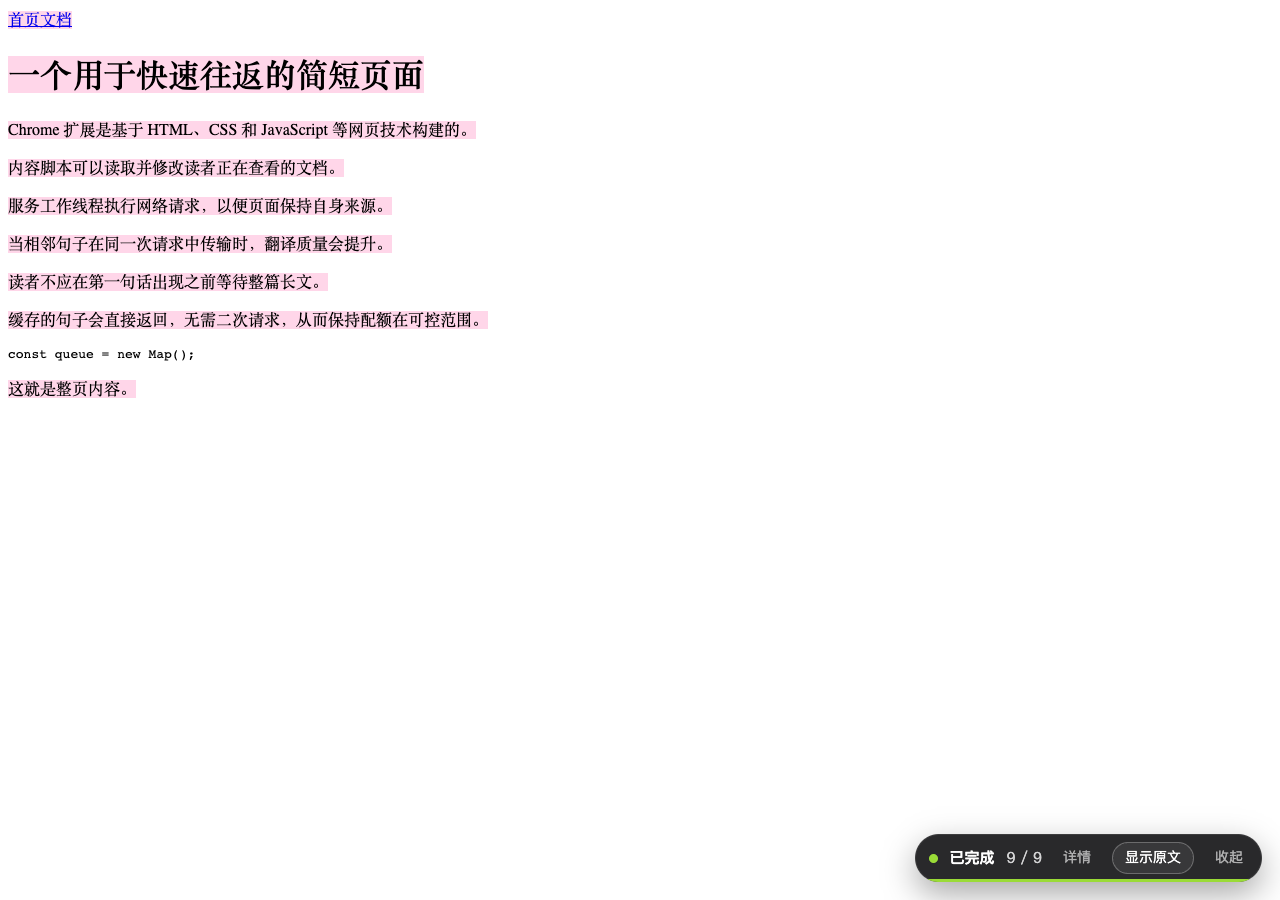
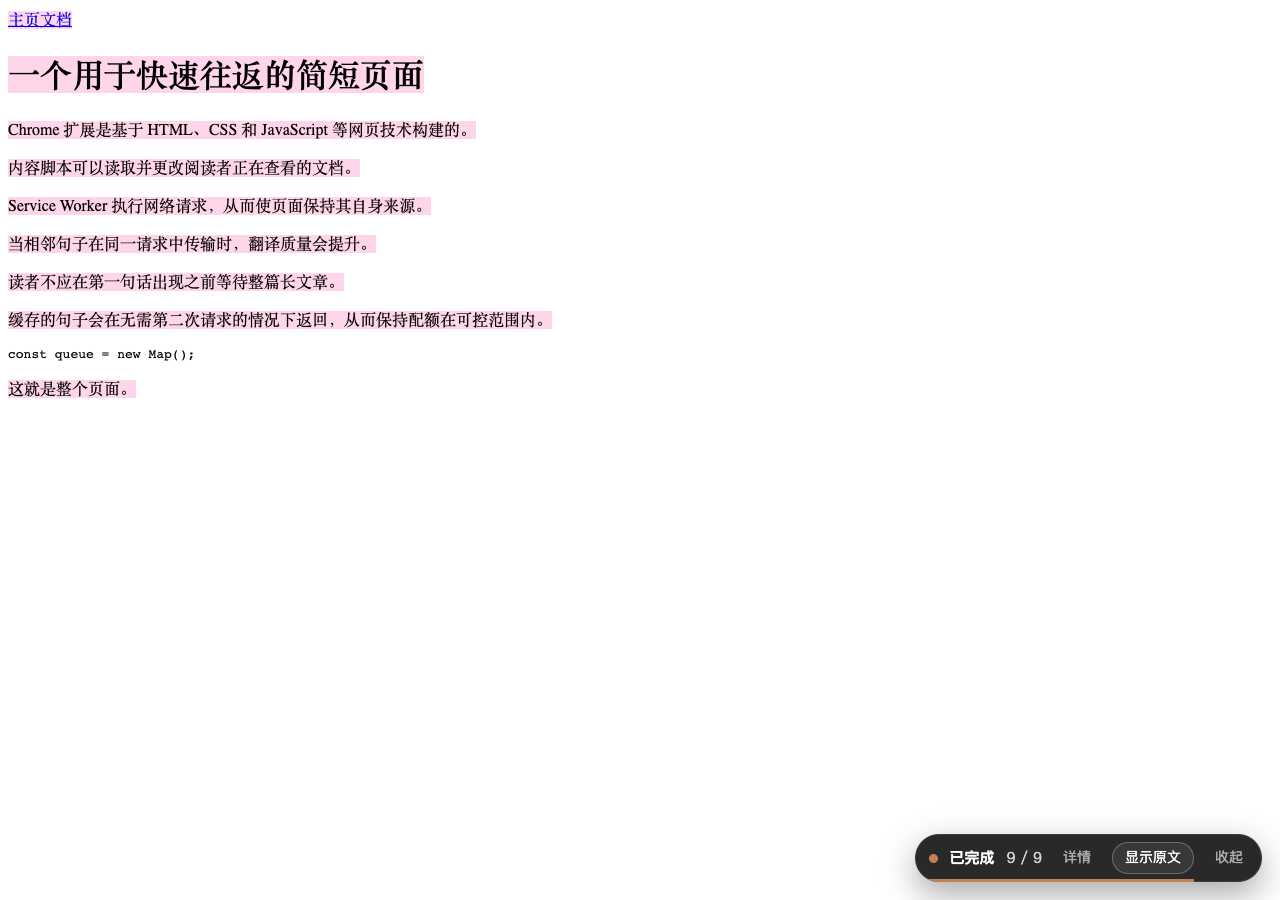
修复密钥注入覆盖设置，补充界面与划词回归

diff --git a/src/background.js b/src/background.js
@@ -13,14 +13,20 @@ import {
   originPatternOf,
   formatDuration,
 } from "./shared/config.js";
-import { seedDevKey } from "./shared/dev_key.js";
+import { getDevConfigKey } from "./shared/dev_key.js";
 
 const settings = { ...DEFAULTS };
+let devApiKey = "";
 const settingsReady = (async () => {
-  await seedDevKey();
+  devApiKey = await getDevConfigKey();
   const stored = await chrome.storage.local.get("settings");
   if (stored.settings) Object.assign(settings, stored.settings);
+  if (!settings.apiKey && devApiKey) settings.apiKey = devApiKey;
 })();
+
+function apiKeyOf() {
+  return settings.apiKey || devApiKey || "";
+}
 
 chrome.storage.onChanged.addListener((changes, area) => {
   if (area !== "local") return;
@@ -422,7 +428,7 @@ function hostOfUrl(url) {
 }
 
 async function streamCompletion(segments, signal, onSegment) {
-  const key = settings.apiKey;
+  const key = apiKeyOf();
   if (!key) throw new ApiError(0, "", null, "config");
   await assertEndpointPermission();
 
@@ -490,7 +496,7 @@ async function streamCompletion(segments, signal, onSegment) {
 }
 
 async function streamSelection(text, signal, onDelta) {
-  const key = settings.apiKey;
+  const key = apiKeyOf();
   if (!key) throw new ApiError(0, "", null, "config");
   await assertEndpointPermission();
 
@@ -832,11 +838,11 @@ chrome.runtime.onMessage.addListener((msg, sender, sendResponse) => {
   if (!msg || !msg.t) return false;
   if (msg.t === MSG.MODELS) {
     settingsReady.then(async () => {
-      if (!settings.apiKey) return sendResponse({ ok: false, message: "尚未配置密钥，请先填写 Groq 密钥。" });
+      if (!apiKeyOf()) return sendResponse({ ok: false, message: "尚未配置密钥，请先填写 Groq 密钥。" });
       try {
         await assertEndpointPermission();
         const res = await fetch((settings.baseUrl || DEFAULTS.baseUrl).replace(/\/+$/, "") + "/models", {
-          headers: { Authorization: `Bearer ${settings.apiKey}` },
+          headers: { Authorization: `Bearer ${apiKeyOf()}` },
         });
         const text = await res.text();
         if (!res.ok) {

diff --git a/src/shared/dev_key.js b/src/shared/dev_key.js
@@ -1,34 +1,15 @@
 const DEV_CONFIG_PATH = "src/dev_config.json";
 
-// 同一页面内只执行一次，避免并发读取后各自回写造成设置丢失。
-let seedPromise = null;
+let cache = null;
 
-export function seedDevKey() {
-  if (!seedPromise) {
-    seedPromise = doSeed().catch(() => false);
+// 只作为运行时兜底，不写入 chrome.storage：
+// 早期实现会回写 settings，与设置页或测试的写入并发时会把接口地址与模型覆盖掉。
+export function getDevConfigKey() {
+  if (!cache) {
+    cache = fetch(chrome.runtime.getURL(DEV_CONFIG_PATH))
+      .then((res) => (res.ok ? res.json() : null))
+      .then((config) => (config && typeof config.apiKey === "string" ? config.apiKey.trim() : ""))
+      .catch(() => "");
   }
-  return seedPromise;
-}
-
-async function doSeed() {
-  const stored = await chrome.storage.local.get("settings");
-  const current = stored.settings || {};
-  if (current.apiKey) return false;
-  let apiKey = "";
-  try {
-    const res = await fetch(chrome.runtime.getURL(DEV_CONFIG_PATH));
-    if (res.ok) {
-      const config = await res.json();
-      apiKey = (config.apiKey || "").trim();
-    }
-  } catch {
-    return false;
-  }
-  if (!apiKey) return false;
-  // 写回前再读一次，保留设置页或其他页面刚写入的字段，避免用旧快照覆盖。
-  const latestStored = await chrome.storage.local.get("settings");
-  const latest = latestStored.settings || {};
-  if (latest.apiKey) return false;
-  await chrome.storage.local.set({ settings: { ...latest, apiKey } });
-  return true;
+  return cache;
 }

diff --git a/src/options.js b/src/options.js
@@ -1,9 +1,10 @@
 import { DEFAULTS, LANGS, MSG, MODEL_PRESETS, parseBlacklist, originPatternOf, formatBytes } from "./shared/config.js";
-import { seedDevKey } from "./shared/dev_key.js";
+import { getDevConfigKey } from "./shared/dev_key.js";
 
 const $ = (id) => document.getElementById(id);
 let settings = { ...DEFAULTS };
 let saveTimer = null;
+let devKey = "";
 
 const NUMERIC = ["prefetchScreens", "batchSegments", "batchChars", "concurrency", "maxTokens", "temperature", "cacheLimit", "cacheMaxMB", "cacheTtlDays", "idleFillMaxChars"];
 const BOOLEAN = ["flashHighlight", "selectionTranslate", "hoverOriginal"];
@@ -43,7 +44,7 @@ function fillSelect(sel, items, value) {
 }
 
 function render() {
-  $("apiKey").value = settings.apiKey || "";
+  $("apiKey").value = settings.apiKey || devKey || "";
   $("baseUrl").value = settings.baseUrl;
   fillSelect($("model"), [], settings.model);
   fillSelect($("targetLang"), LANGS.map((l) => ({ value: l.id, label: l.label })), settings.targetLang);
@@ -243,7 +244,7 @@ async function refreshStats() {
 }
 
 async function init() {
-  await seedDevKey();
+  devKey = await getDevConfigKey();
   const stored = await chrome.storage.local.get("settings");
   settings = { ...DEFAULTS, ...(stored.settings || {}) };
   render();

diff --git a/src/popup.js b/src/popup.js
@@ -1,5 +1,5 @@
 import { DEFAULTS, LANGS, MSG, formatDuration, hostMatchesBlacklist, normalizeDomain } from "./shared/config.js";
-import { seedDevKey } from "./shared/dev_key.js";
+import { getDevConfigKey } from "./shared/dev_key.js";
 
 const $ = (id) => document.getElementById(id);
 let settings = { ...DEFAULTS };
@@ -9,6 +9,7 @@ let polling = null;
 let host = "";
 let lastState = null;
 let rawOpen = false;
+let devKey = "";
 
 function chip(text, cls) {
   const el = $("chip");
@@ -171,7 +172,7 @@ async function refresh() {
 }
 
 function renderKeyState() {
-  const ok = !!settings.apiKey;
+  const ok = !!(settings.apiKey || devKey);
   $("keyState").textContent = ok ? `密钥已配置 · ${settings.model}` : "密钥未配置";
 }
 
@@ -226,7 +227,7 @@ async function primaryAction() {
 }
 
 async function init() {
-  await seedDevKey();
+  devKey = await getDevConfigKey();
   const stored = await chrome.storage.local.get("settings");
   settings = { ...DEFAULTS, ...(stored.settings || {}) };
   fillLangs();

diff --git a/开发记录.md b/开发记录.md
@@ -35,10 +35,18 @@
 
 1. npm run test:mock：15 项通过，46 个标记分 33 个阶段写入，请求 6 次，批内重复段 0，复访缓存 128 毫秒完成且零请求。
 2. npm run test:guards：53 项通过，覆盖字号、折叠、划词、悬停、白名单、仅正文、中文跳过、错误详情。
-3. npm run test:mini：9 项通过，真实接口 1.6 秒译完，输入 316 tokens，输出 227 tokens。
+3. npm run test:mini：9 项通过，真实接口约 1.6 秒译完，输入 316 tokens，输出 508 tokens。
 4. npm run test:e2e：17 项通过，48 单元译完，输入 4032 tokens，输出 4941 tokens，复访 212 毫秒。
 5. npm run test:real：5 项通过，MDN 页面 2 秒出现 574 个中文字符，设置页连接测试 799 毫秒。
 6. 截图更新：效果图 06 到 10 为真实站点与弹窗，17 到 20 为界面规范、划词、错误详情。
+
+### 收尾时又抓到一个真缺陷
+
+1. 跨浏览器重启的缓存用例复跑时暴露出设置被清空，重新落进只有密钥的 settings，接口地址与模型全部丢失，程序退回默认地址并用上了真实密钥。
+2. 真因在 dev_key：它在服务工作进程启动时读取设置，若此时为空就回写 settings，和设置页或测试的写入并发，后落盘的只含 apiKey 的版本覆盖了完整设置。写前重读只能缩小窗口，不能消除竞态。
+3. 改为密钥只做运行时兜底：dev_config.json 只在内存里提供默认密钥，不再写 chrome.storage；后台用 apiKeyOf 统一取值，弹窗与设置页显示兜底密钥来源。副作用是密钥不再落进浏览器配置目录，更安全。
+4. 复跑 test:guards 53 项全过，跨重启后设置为完整对象，缓存命中 1 段且零请求；test:mini 真实接口 9 项全过。
+5. test:mock、test:guards、test:mini 在密钥兜底改动之后复跑；test:e2e 与 test:real 在改动之前执行，改动只影响密钥取值，不涉及调度与提示词。
 
 ### 已知遗留
 
